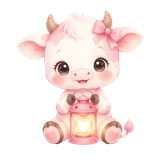
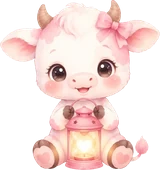
nitaku: 1.66 のバナーのキャラクターの大きさと位置をそろえる
Claude-Session: https://claude.ai/code/session_01VNhb2hkhfox6azdXRsnDTE

diff --git a/nitaku/index.html b/nitaku/index.html
@@ -189,11 +189,11 @@ h2{font-size:20px;margin:22px 0 10px;font-weight:900}
 .about p{font-size:14px;line-height:1.8}
 .ab-list{padding-left:18px;margin:6px 0}
 .ab-list li{font-size:14px;line-height:1.7;margin-bottom:8px}
-.promo{position:relative;display:grid;grid-template-columns:auto 1fr;gap:4px 12px;align-items:center;margin:22px 0 4px;padding:14px 16px 16px 10px;border-radius:20px;text-decoration:none;text-align:left;color:#fff;background:radial-gradient(120% 90% at 20% 0%,#3F2C63 0%,#2A1F44 45%,#1B1530 100%);border:1.5px solid rgba(230,196,119,.55);box-shadow:4px 4px 0 #F2C94C;overflow:hidden}
+.promo{position:relative;display:grid;grid-template-columns:auto 1fr;gap:4px 12px;align-items:center;margin:22px 0 4px;padding:14px 16px 16px 14px;border-radius:20px;text-decoration:none;text-align:left;color:#fff;background:radial-gradient(120% 90% at 20% 0%,#3F2C63 0%,#2A1F44 45%,#1B1530 100%);border:1.5px solid rgba(230,196,119,.55);box-shadow:4px 4px 0 #F2C94C;overflow:hidden}
 .promo::before{content:"";position:absolute;inset:0;background-image:radial-gradient(1.2px 1.2px at 12% 20%,#fff8,transparent),radial-gradient(1px 1px at 62% 14%,#fff9,transparent),radial-gradient(1.4px 1.4px at 88% 70%,#fff7,transparent),radial-gradient(1px 1px at 40% 86%,#fff6,transparent),radial-gradient(1px 1px at 76% 40%,#fff8,transparent);pointer-events:none}
-.promo .pr-pair{position:relative;display:flex;align-items:center}
-.promo .pr-pair img{width:68px;height:68px;object-fit:contain;filter:drop-shadow(0 4px 10px rgba(243,201,210,.25))}
-.promo .pr-pair i{font-style:normal;color:#E6C477;font-size:16px;font-weight:900;margin:0 -4px}
+.promo .pr-pair{position:relative;display:flex;align-items:flex-end}.promo .pr-pair i{align-self:center}
+.promo .pr-pair img{height:72px;width:auto;object-fit:contain;filter:drop-shadow(0 4px 10px rgba(243,201,210,.25))}
+.promo .pr-pair i{font-style:normal;color:#E6C477;font-size:16px;font-weight:900;margin:0 5px}
 .promo .pr-m{position:relative;min-width:0;display:block;line-height:1.45}
 .promo .pr-k{display:block;color:#E6C477;font-size:13px;font-weight:700;letter-spacing:.12em}
 .promo .pr-n{display:block;font-family:"Shippori Mincho","Hiragino Mincho ProN","Yu Mincho",serif;font-weight:800;font-size:40px;line-height:1.05;color:#F3C9D2;letter-spacing:.01em}
@@ -459,7 +459,7 @@ body[data-mode="normal"] .wtrack.b i{background:#7FCFAF}
   <button class="big alt" id="review-open" hidden>送られた問題を確認する（持ち主だけ）</button>
   <button class="big alt" id="tell">📣 このサイトを友だちに教える</button>
   <!-- メインサービスの紹介（鑑定者本人の指示 2026-11-12「堂々とリンクを貼ってほしい」） -->
-  <a class="promo" href="https://166unmei.com" target="_blank" rel="noopener" aria-label="1.66 奇跡の相性診断で占う（別のサイト 166unmei.com が開きます）"><span class="pr-pair" aria-hidden="true"><img src="img/166-cow.webp" alt="" width="68" height="68" loading="lazy"><i>×</i><img src="img/166-mouse.webp" alt="" width="68" height="68" loading="lazy"></span><span class="pr-m"><span class="pr-k">奇跡の相性診断</span><span class="pr-n">1.66<small>%</small></span><span class="pr-d">あの人は、<em>奇跡の1.66%</em>に入っている？</span></span><span class="pr-btn">生年月日で占う <small>1分・無料 ↗</small></span></a><p class="promo-u">166unmei.com（別のサイト）</p>
+  <a class="promo" href="https://166unmei.com" target="_blank" rel="noopener" aria-label="1.66 奇跡の相性診断で占う（別のサイト 166unmei.com が開きます）"><span class="pr-pair" aria-hidden="true"><img src="img/166-cow.webp" alt="" width="68" height="72" loading="lazy"><i>×</i><img src="img/166-mouse.webp" alt="" width="66" height="72" loading="lazy"></span><span class="pr-m"><span class="pr-k">奇跡の相性診断</span><span class="pr-n">1.66<small>%</small></span><span class="pr-d">あの人は、<em>奇跡の1.66%</em>に入っている？</span></span><span class="pr-btn">生年月日で占う <small>1分・無料 ↗</small></span></a><p class="promo-u">166unmei.com（別のサイト）</p>
 
   <!-- 人気の究極の二択（検索で見つけてもらうため、文字で載せる。鑑定者本人の指示 2026-11-11） -->
   <section class="popular" aria-labelledby="pop-h">
@@ -1345,7 +1345,7 @@ function histHTML(mode, h){
       return '<div class="ax2"><div class="ax2h"><b>'+ax.name+'</b><em>'+v+'<small>%</small></em></div><div class="ax2bar"><i style="width:'+v+'%"></i></div></div>'; }).join('')+
     '</div>';
 }
-var PROMO='<a class="promo" href="https://166unmei.com" target="_blank" rel="noopener" aria-label="1.66 奇跡の相性診断で占う（別のサイト 166unmei.com が開きます）"><span class="pr-pair" aria-hidden="true"><img src="img/166-cow.webp" alt="" width="68" height="68" loading="lazy"><i>×</i><img src="img/166-mouse.webp" alt="" width="68" height="68" loading="lazy"></span><span class="pr-m"><span class="pr-k">奇跡の相性診断</span><span class="pr-n">1.66<small>%</small></span><span class="pr-d">あの人は、<em>奇跡の1.66%</em>に入っている？</span></span><span class="pr-btn">生年月日で占う <small>1分・無料 ↗</small></span></a><p class="promo-u">166unmei.com（別のサイト）</p>';
+var PROMO='<a class="promo" href="https://166unmei.com" target="_blank" rel="noopener" aria-label="1.66 奇跡の相性診断で占う（別のサイト 166unmei.com が開きます）"><span class="pr-pair" aria-hidden="true"><img src="img/166-cow.webp" alt="" width="68" height="72" loading="lazy"><i>×</i><img src="img/166-mouse.webp" alt="" width="66" height="72" loading="lazy"></span><span class="pr-m"><span class="pr-k">奇跡の相性診断</span><span class="pr-n">1.66<small>%</small></span><span class="pr-d">あの人は、<em>奇跡の1.66%</em>に入っている？</span></span><span class="pr-btn">生年月日で占う <small>1分・無料 ↗</small></span></a><p class="promo-u">166unmei.com（別のサイト）</p>';
 function showResult(){
   var mode=S.mode, sc=score(mode,S.qs,S.ans[0]), hd=headline(mode), val=sc[hd.k];
   var sp=speedStats(S.qs,S.times[0],S.ans[0]);
